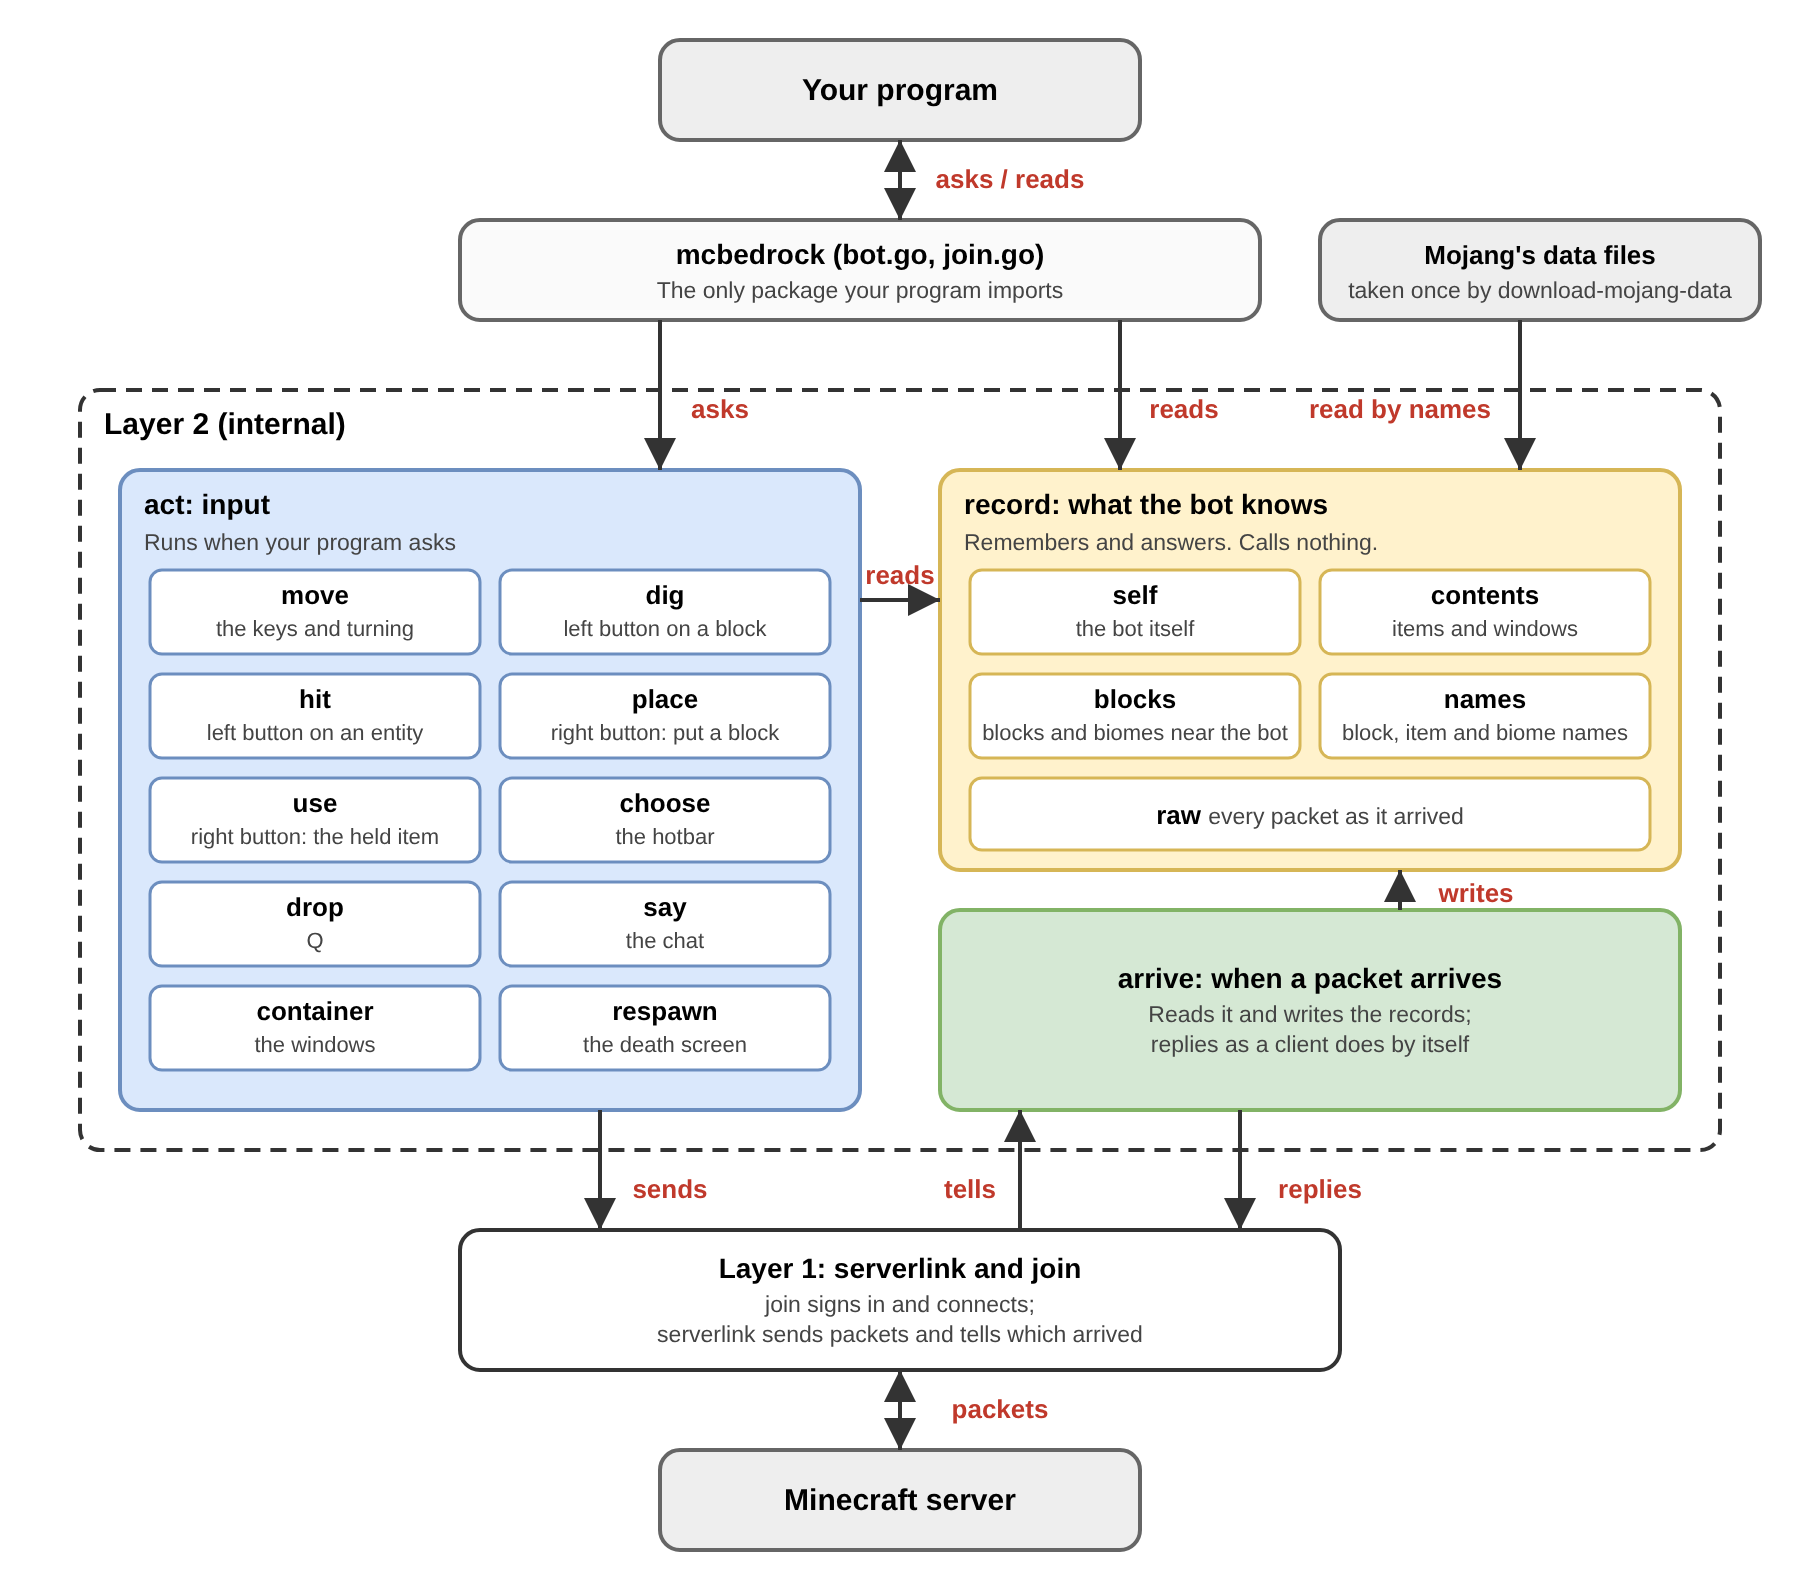
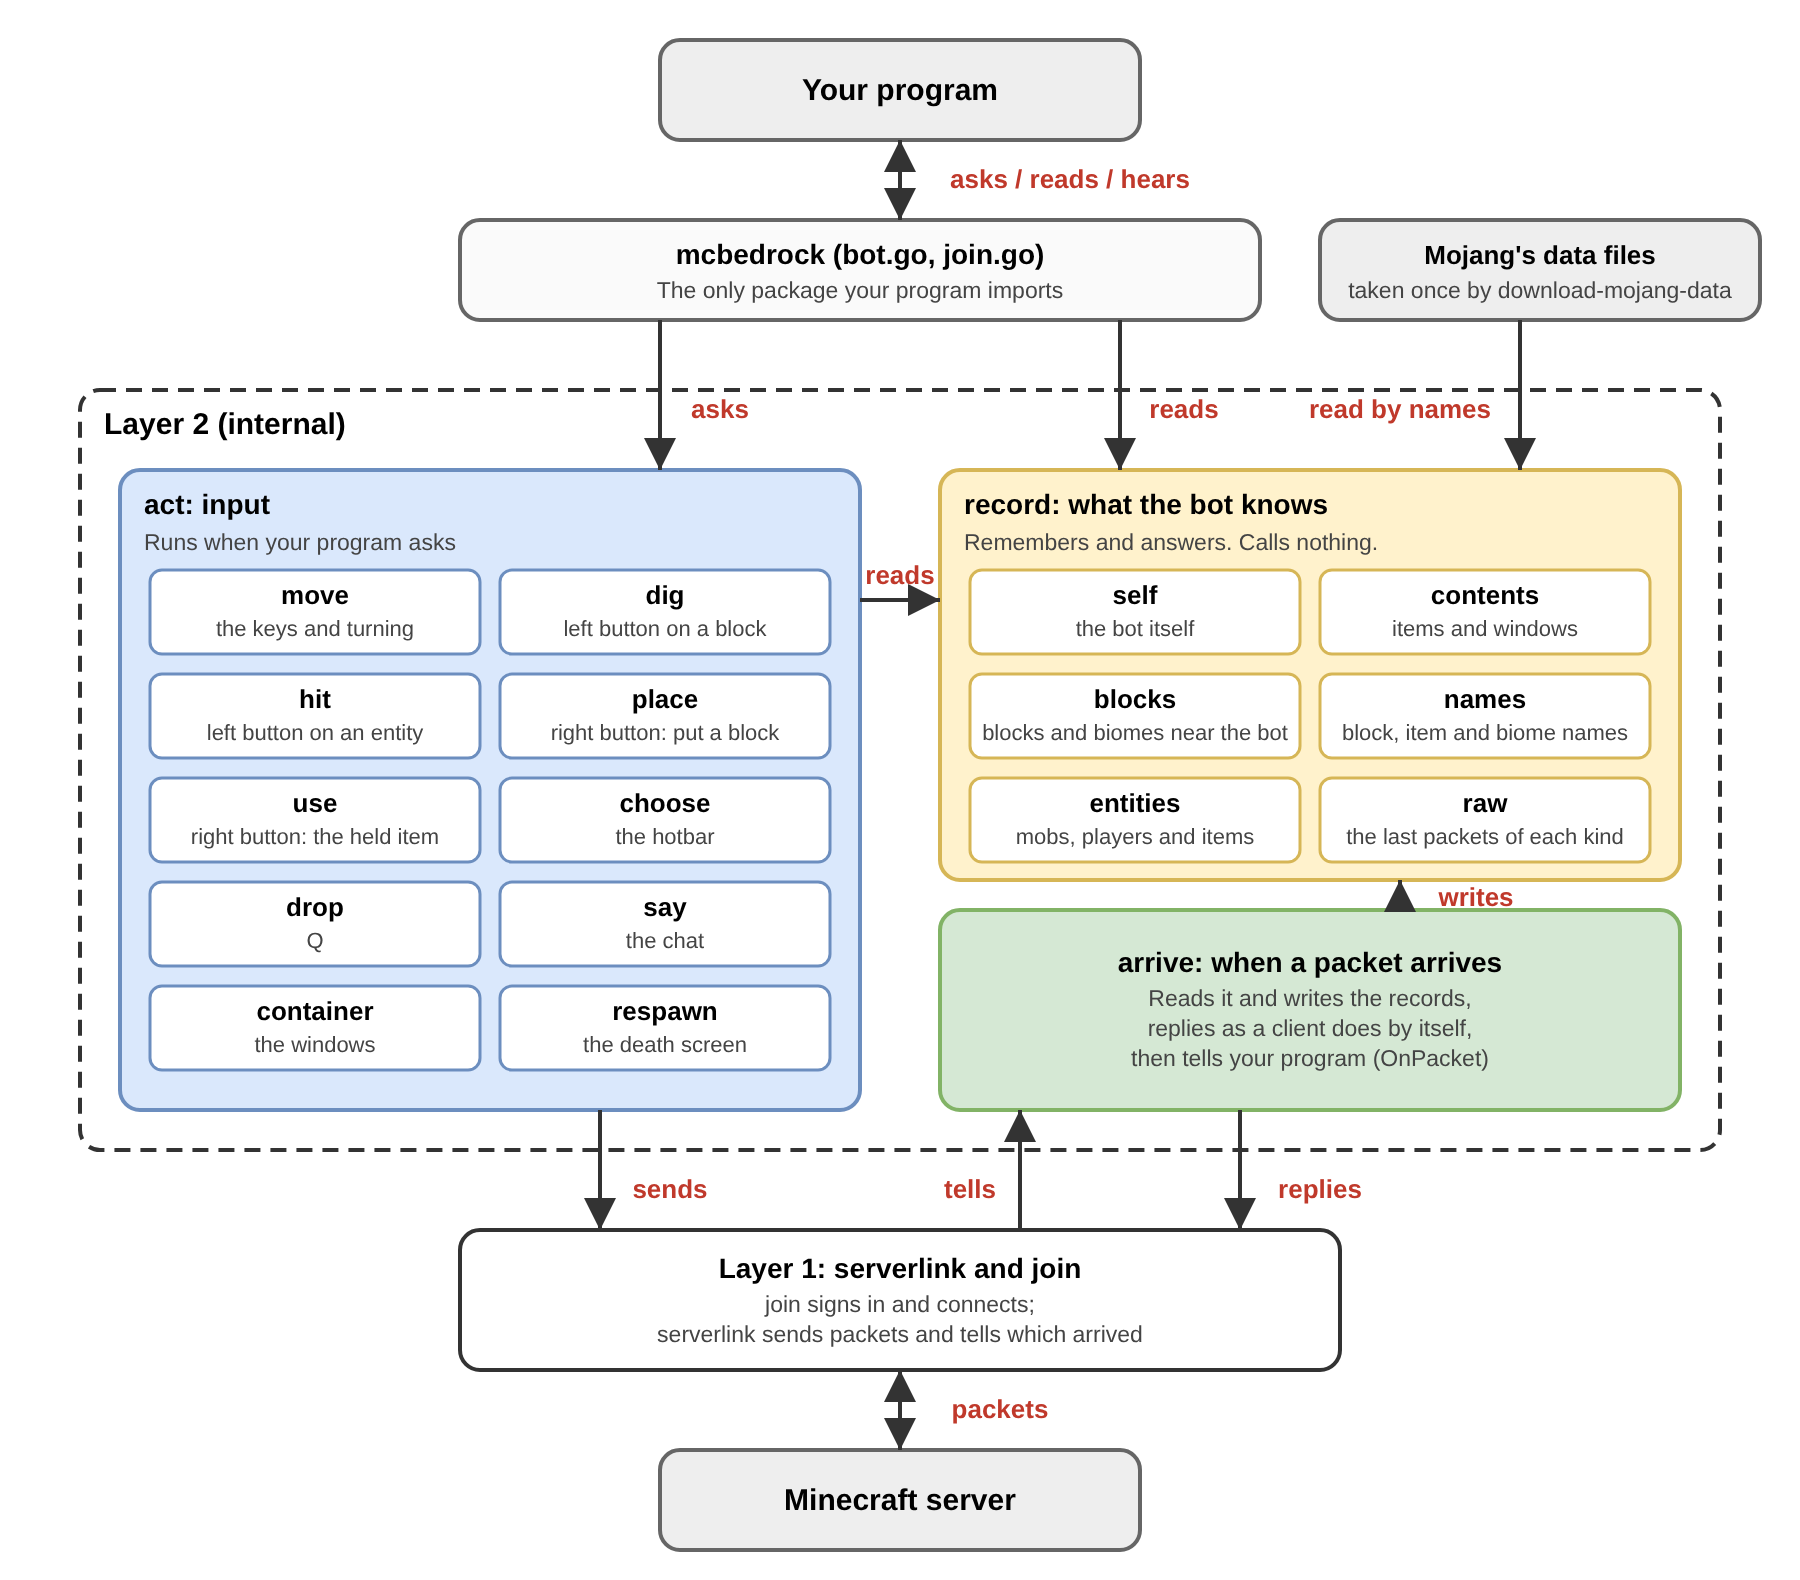
Update the README and the diagram for v0.2.0
- README: OnPacket, OnTick, Entities, health and the breaking time; Go 1.25;
  the known limits and the plans
- Self.Position: say it lags about a block while the bot moves

Claude-Session: https://claude.ai/code/session_01PG7SDQnYSFN7wfHqK8Tacb

Changed region(s): [[0.5289, 0.4652, 0.9333, 0.6823], [0.5289, 0.093, 0.6533, 0.1241]]

diff --git a/internal/record/self/self.go b/internal/record/self/self.go
@@ -68,7 +68,10 @@ func New(entityRuntimeID uint64, entityUniqueID int64, position [3]float32, dime
 func (s *Self) EntityRuntimeID() uint64 { return s.entityRuntimeID }
 func (s *Self) EntityUniqueID() int64   { return s.entityUniqueID }
 
-// Position is where the server last said the bot is (the eyes).
+// Position is where the server last said the bot is (the eyes). While the bot
+// moves, the server says so only when it is off by about a block (seen with
+// Minecraft 1.26.60), so it can be that far behind; once the bot stops, it is
+// where the bot is.
 func (s *Self) Position() [3]float32 {
 	s.mu.Lock()
 	defer s.mu.Unlock()

diff --git a/README.md b/README.md
@@ -4,8 +4,9 @@ mcbedrock-bot is a Go library for **Minecraft Bedrock Edition bots**: it gives
 a program the **basic actions** of a player, so that the program can play in
 place of a human. Each call is what a player does with the keys, the mouse
 buttons, the hotbar or a window: walk, jump, dig, place a block, use an item,
-chat, open a chest, respawn. What the server sends back can be read: where the
-bot is, its items, the blocks and biomes around it.
+chat, open a chest, respawn. What the server tells can be read back, or heard
+as it arrives: where the bot is, its health and items, the blocks and biomes
+around it, the mobs, players and items near it.
 
 mcbedrock-bot does not decide anything. It has no path finding, no fighting
 and no plans: those belong to the program built on top of it.
@@ -20,7 +21,7 @@ and no plans: those belong to the program built on top of it.
 
 ## Requirements
 
-- Go 1.26 or later
+- Go 1.25 or later
 - A Microsoft account that owns Minecraft Bedrock Edition
 - A world opened to LAN ("Visible to LAN Players") on the same network
 
@@ -51,15 +52,67 @@ if err != nil {
 }
 defer bot.Close()
 
+// Act: hold a key, then let it go.
 bot.Move().StartForward()
 time.Sleep(2 * time.Second)
 bot.Move().StopForward()
 
+// Read: what the server has told.
 block, ok := bot.Blocks().At(protocol.BlockPos{10, 64, -3})
 if ok {
 	fmt.Println(block.Name, block.Biome) // minecraft:stone minecraft:plains
 }
+for _, e := range bot.Entities().All() {
+	fmt.Println(e.Type, e.Name, e.Position) // minecraft:sheep  [-76.1 63 -114.9]
+}
+
+// Hear: every tick, and every packet as it arrives.
+bot.OnTick(func(tick uint64) {
+	if health, _ := bot.Self().Health(); health < 6 {
+		bot.Move().StartBack()
+	}
+})
+bot.OnPacket(func(p packet.Packet) {
+	if text, ok := p.(*packet.Text); ok {
+		fmt.Println("chat:", text.Message)
+	}
+})
 ```
+
+## What the bot can do, read and hear
+
+- **Doors** (what the bot does): `Move` (the keys and turning), `Dig` (the left
+  button on a block), `Hit` (the left button on an entity), `Place` and `Use`
+  (the right button), `Choose` (the hotbar), `Drop` (Q), `Say` (the chat),
+  `Container` (the windows: chests, crafting, trading, enchanting, anvils and
+  more), `Respawn` (the death screen). The server decides what happens.
+- **Records** (what the server has told): `Self` (position, health, food,
+  effects, and how many ticks the block being broken takes), `Contents` (items
+  and windows), `Blocks` (the blocks and biomes near the bot, by name),
+  `Entities` (the mobs, players and items on the ground around the bot),
+  `Names` (the name of any block, item or biome number), `Raw` (the last
+  packets of each kind).
+- **Hearing**: `OnPacket` is told every packet after the records have it
+  (`Options.OnPacket` from the first packet, while joining). `OnTick` is called
+  every tick, 20 a second, just before the bot sends its input. Both run
+  inside the bot, so return quickly; they run in two goroutines at the same
+  time, so guard data that both touch.
+- Every type the bot gives has a name in this package: `mcbedrock.Move`,
+  `mcbedrock.Block`, `mcbedrock.Entity` and the rest.
+
+## Known limits
+
+- **The position while moving.** The server says where the bot is only when
+  it is off by about a block, so `Self().Position()` can be that far behind
+  while the bot moves. Once the bot stops, it is where the bot is.
+- **No collision shapes.** Whether the bot can stand somewhere is not known yet.
+- **LAN worlds only.** Joining a server by its address is not supported yet.
+
+## Plans
+
+- A closer position while the bot moves
+- The collision shapes of blocks
+- Tests for every door
 
 ## Mojang's data
 
@@ -87,13 +140,11 @@ each call it makes.
 ![The parts of mcbedrock-bot](docs/system.png)
 
 - **mcbedrock** (`bot.go`, `join.go`) is the only package your program imports.
-- **act** sends what a player does. Each door is one kind of input (`Move`,
-  `Dig`, `Hit`, `Place`, `Use`, `Choose`, `Drop`, `Say`, `Container`,
-  `Respawn`); the server decides what happens.
+- **act** sends what a player does, one door per kind of input.
 - **record** remembers what the server has told (`Self`, `Contents`,
-  `Blocks`, `Names`, `Raw`) and answers when asked.
-- **arrive** reads each packet that arrives, writes the records, and replies
-  where a client replies by itself.
+  `Blocks`, `Entities`, `Names`, `Raw`) and answers when asked.
+- **arrive** reads each packet that arrives, writes the records, replies
+  where a client replies by itself, then tells your program (`OnPacket`).
 - **serverlink** and **join** sign in, connect, send packets and tell which
   ones arrived. They are built on
   [gophertunnel](https://github.com/Sandertv/gophertunnel).
